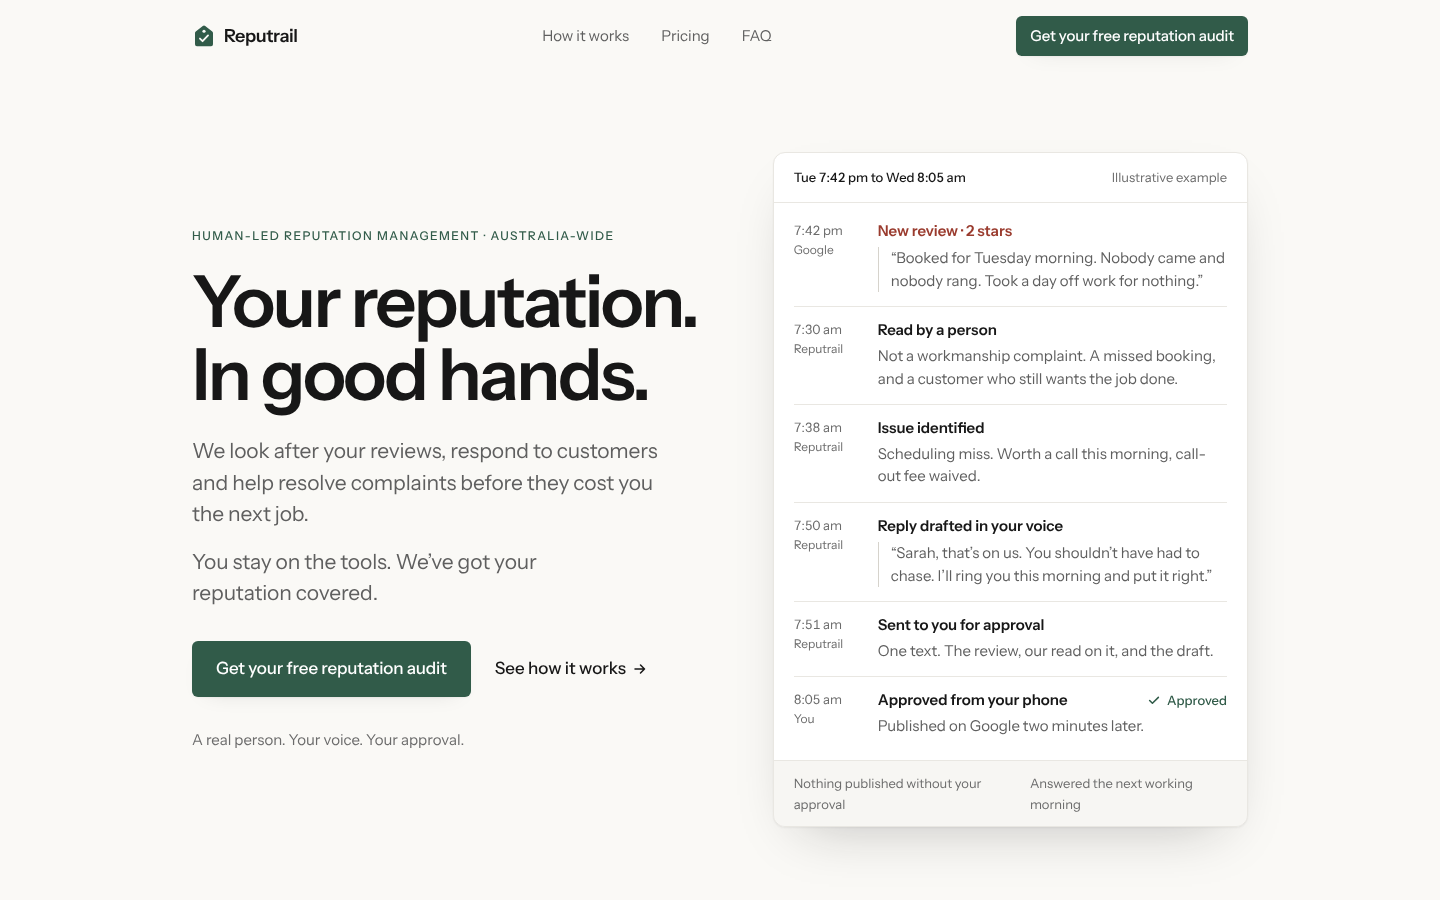
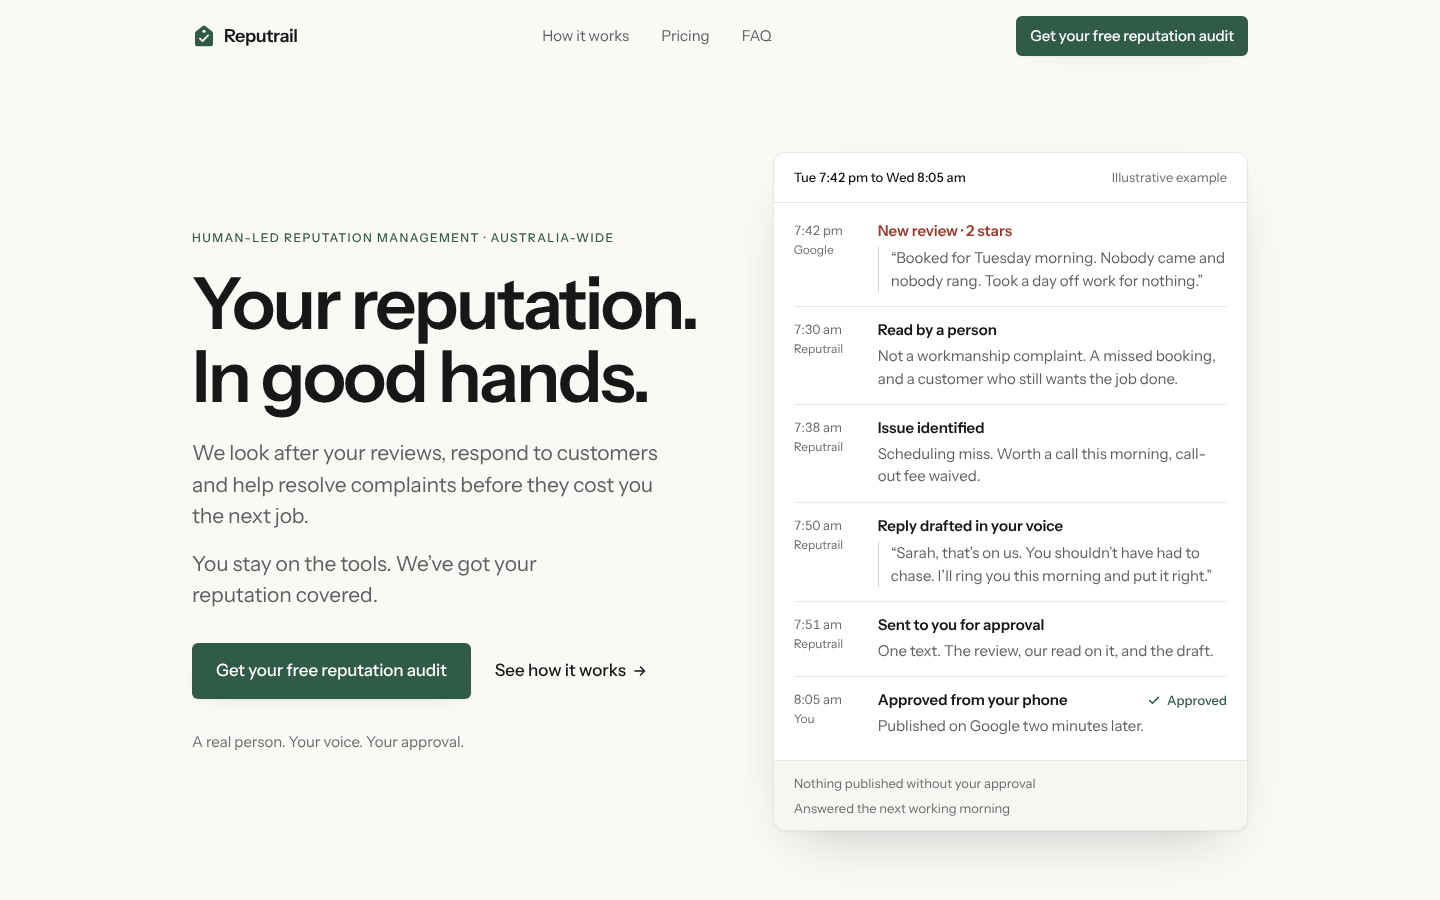
Wrap the feed footer phrases as whole units
Claude-Session: https://claude.ai/code/session_01ENmCd512n7pVmn2xqYR7gJ

diff --git a/src/components/ActivityFeed.tsx b/src/components/ActivityFeed.tsx
@@ -108,11 +108,11 @@ export function ActivityFeed({ className = "" }: { className?: string }) {
         </ol>
 
         <div
-          className="record-entry flex items-center justify-between gap-4 border-t rule bg-ground-sunken/60 px-5 py-3 text-[0.8125rem] text-ink-faint"
+          className="record-entry flex flex-wrap items-center justify-between gap-x-6 gap-y-1 border-t rule bg-ground-sunken/60 px-5 py-3 text-[0.8125rem] text-ink-faint"
           style={{ "--i": entries.length } as React.CSSProperties}
         >
-          <span>Nothing published without your approval</span>
-          <span>Answered the next working morning</span>
+          <span className="whitespace-nowrap">Nothing published without your approval</span>
+          <span className="whitespace-nowrap">Answered the next working morning</span>
         </div>
       </figure>
     </RecordMotion>
